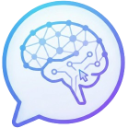
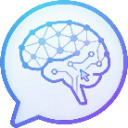
feat(ui): 新增聊天容器背景浮水印
在聊天容器中加入背景圖標，並實作當容器內有訊息時自動隱藏背景的邏輯。

- 新增背景圖標資源 `bg.png` 並更新現有圖標。
- 在 `chat-container` 使用 `::before` 虛擬元素呈現背景浮水印。
- 利用 CSS `:has()` 選擇器，在存在訊息時動態隱藏背景。
- 優化 CSS 層次結構（z-index）以確保內容顯示正確。

diff --git a/styles/components/chat-container.css b/styles/components/chat-container.css
@@ -17,6 +17,36 @@
     box-sizing: border-box;
     margin-top: var(--chat-top-margin, 0px);
     transition: margin-top 0.3s ease;
+    isolation: isolate;
+}
+
+#chat-container::before {
+    content: '';
+    position: absolute;
+    left: 50%;
+    top: 50%;
+    width: 160px;
+    height: 160px;
+    transform: translate(-50%, -50%);
+    background: url('../../icons/bg.png') center center / contain no-repeat;
+    opacity: 0.28;
+    image-rendering: -webkit-optimize-contrast;
+    image-rendering: crisp-edges;
+    pointer-events: none;
+    z-index: 0;
+    visibility: visible;
+    transition: opacity 0.35s ease, visibility 0s linear 0s;
+}
+
+#chat-container:has(.message)::before {
+    opacity: 0;
+    visibility: hidden;
+    transition: opacity 0.35s ease, visibility 0s linear 0.35s;
+}
+
+#chat-container > * {
+    position: relative;
+    z-index: 1;
 }
 
 #chat-container::-webkit-scrollbar {
